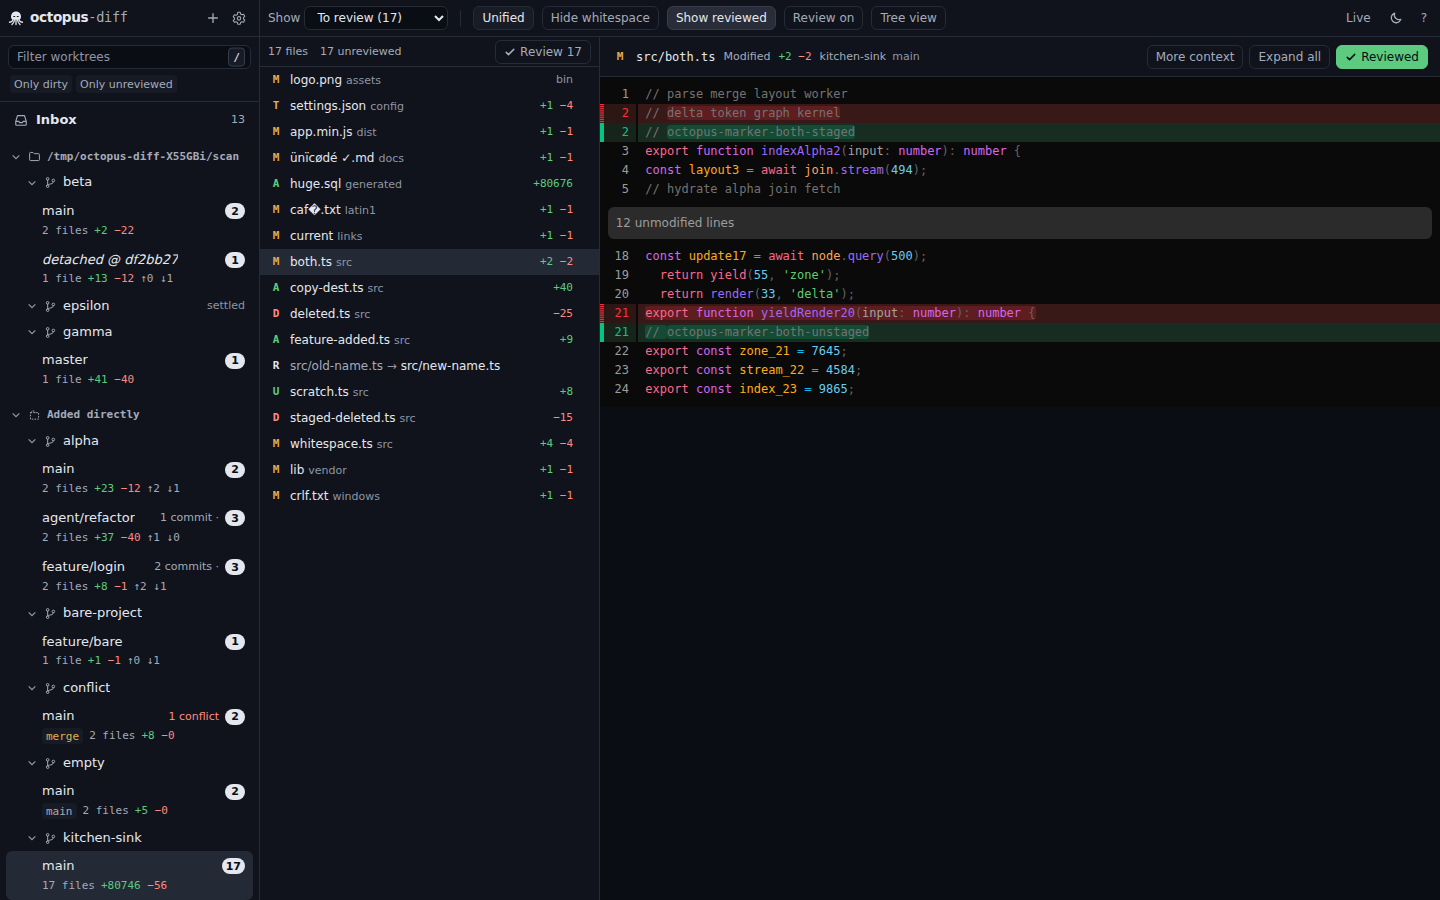
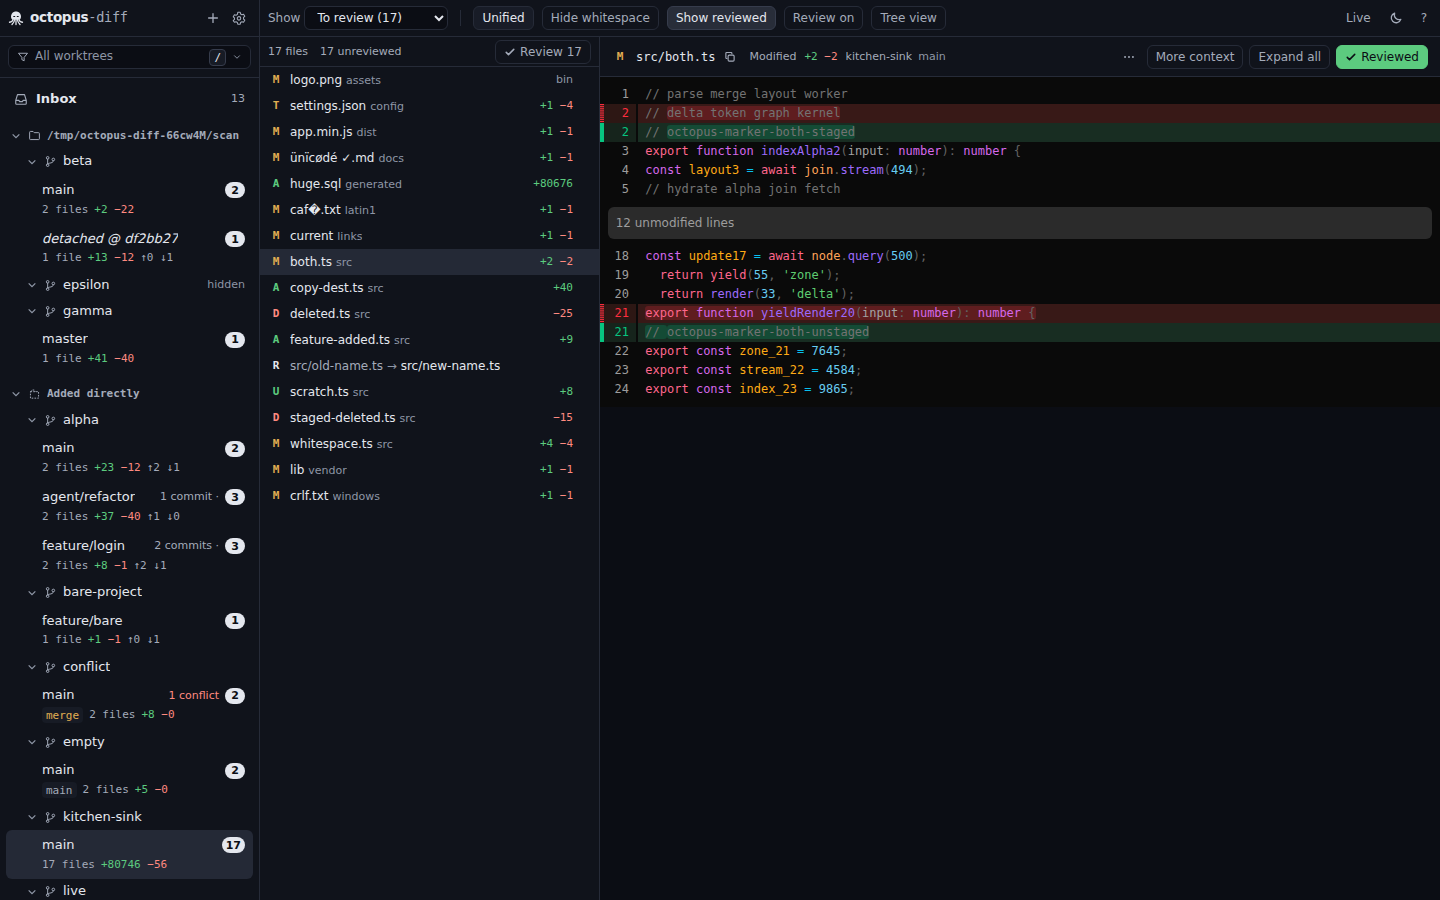
docs: DECISIONS #112-#115, README filter and Hidden shelf, regenerated screenshots

diff --git a/docs/DECISIONS.md b/docs/DECISIONS.md
@@ -1538,3 +1538,34 @@ request, git call or contract change.
      Measured on 2026-11-09: `main` (`1561c3c`, a temporary worktree) failed 1 of 3 `pnpm test` runs, this branch 1
      of 3; `pnpm check` on this branch failed 5 of 9 runs, always this one test. git-core is WS1's; proposal for its
      owner: give that test an explicit timeout (e.g. 30 s). Not changed here (AGENTS: edit only owned paths).
+
+## Sidebar: "Hidden" shelf and the filter dropdown (lead, 2026-11-09)
+
+112. **The sidebar filter is a dropdown with a search field, not a free-text box.** The user asked for it: a text
+     box hides what you can filter by and matches substrings you have to guess. `SidebarFilter.tsx`: a trigger
+     (funnel, a summary such as `alpha, dirty` or `All worktrees`, `/` hint, `×` to clear) opens a listbox under it
+     with a search field (combobox, `aria-activedescendant`, as the command palette) over three groups: **Status**
+     (Only dirty, Only unreviewed: the two chips moved in here), **Projects** and **Worktrees** (every row of
+     `sidebar.byId`, so options stay listed while the filters hide their rows). Multi-select; arrows move, `Enter`
+     or a click ticks, Escape clears the search then closes, an outside click or Tab away closes. Search is the
+     palette's `fuzzyMatch`, best match first inside each group. Semantics: picked projects and worktrees are one
+     union (a row shows when its project or the row is picked; none picked = all), the status options narrow it.
+     `SidebarFilters` loses `text` and gains `projects` / `worktrees` (ids; transient state `filterProjects`,
+     `filterWorktrees`, `filterOpen`, not persisted, like the old text). `/` (`focusFilter`) opens the dropdown,
+     or focuses its search when open. Path substring matching is gone; T3 Code's pickers (branch, project) are
+     the model.
+113. **Contracts (test ids, additive plus one re-pointing).** New: `sidebarFilterSearch`, `sidebarFilterOption`
+     (`data-kind`, `data-project-id` / `data-worktree-id`, `aria-selected`), `sidebarFilterClear`.
+     `sidebarFilter` now sits on the dropdown's trigger and `onlyDirtyToggle` / `onlyUnreviewedToggle` on its
+     status options (`aria-selected` instead of `aria-pressed`): the old elements no longer exist, and keeping the
+     names keeps their meaning ("the sidebar filter", "the only-dirty control"). e2e gains `openFilter`,
+     `closeFilter`, `setFilterOption`, `filterProject`, `clearFilters`; specs 01, 05, 06, 11 use them.
+114. **"Settled" is now "Hidden" everywhere the user reads it.** #84 renamed the action (Hide / Show, "Hide until
+     it changes") but the shelf header still said **Settled** and a project with nothing open said `settled`, so
+     one concept had two names. The shelf is now **Hidden** (aria "Expand hidden" / "Collapse hidden") and the
+     project word `hidden`. The shelf also holds rows that went there on their own (reviewed, clean, merged, review
+     off, missing); "hidden" still fits, since the shelf is closed by default and each row keeps its reason word.
+     Internal names (`state: 'settled'`, `settledOpen`, `settle` pref, `setSettle`) are unchanged, so stored prefs
+     and the e2e `data-state` values keep working.
+115. **Screenshots.** `e2e/scripts/screenshots.ts` adds `sidebar-filter-{light,dark}.png` (dropdown open, Only
+     dirty and `alpha` ticked); every README screenshot was regenerated since the sidebar header changed.

diff --git a/README.md b/README.md
@@ -123,12 +123,18 @@ Settings → Folders → **Start browsing in** sets where the picker opens (defa
 - **The sidebar is your folders and projects, with the open work under them.** Under the Inbox (and anything
   you pinned), each watched folder lists its repositories, and each repository lists the worktrees that are
   still open: unreviewed files, a conflict or an operation in progress. Everything else (`clean`, `verified`,
-  `review off`, `missing`) sits in the **Settled** shelf at the bottom, closed by default with a count; a
-  project whose worktrees all settled just says `settled`. Hover a row for the check that settles it by hand
-  (or the arrow that brings it back); the next change to that worktree un-settles it automatically, as does a
-  new patch after you verified everything. Blocked work never settles. Click a folder or repository for its
+  `review off`, `missing`) sits in the **Hidden** shelf at the bottom, closed by default with a count; a
+  project whose worktrees are all there just says `hidden`. Hover a row for **Hide** to put it away by hand
+  until it changes (or **Show** to bring it back); the next change to that worktree shows it again, as does a
+  new patch after you reviewed everything. Blocked work never hides. Click a folder or repository for its
   Overview, right-click for the actions, and pin a worktree to keep it at the top. Each worktree is a
   small card: the branch, then its files, `+adds −dels` and ahead/behind; hover a moment for the full details.
+- **Filter from a dropdown, not a text box.** The filter at the top of the sidebar (`/`) opens a searchable
+  list: **Only dirty** and **Only unreviewed**, then every project and every worktree. Type to narrow it,
+  arrows and `Enter` (or a click) to tick as many as you like; ticked projects and worktrees add up, the
+  status options narrow them. The button says what is filtered, and `×` clears it.
+
+  ![The sidebar filter dropdown: status options, projects and worktrees with a search field](docs/screenshots/sidebar-filter-dark.png)
 - **Mark all as verified.** The button above the file list marks every file you can see (respecting the
   sidebar filters); in the Inbox it marks everything. `Shift+R` does the same from the keyboard, and the
   context menu of a worktree, project or folder (and the folder Overview) can mark that whole level, or
